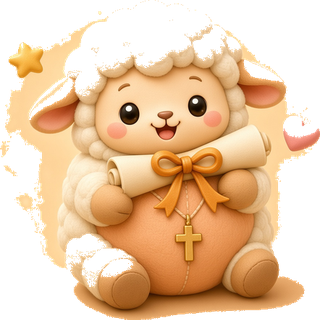
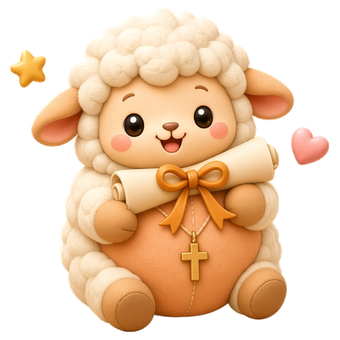
Clean Verse Claw win popup glow, layout, and buttons
Replace blotchy lamb backdrop with a clean asset plus soft radial
halo, keep the doll above the headline, and use even text-only CTAs.

diff --git a/src/components/verse-claw/verse-claw.css b/src/components/verse-claw/verse-claw.css
@@ -596,8 +596,8 @@
 .vc-popup {
   position: relative;
   width: min(100%, 400px);
-  margin-top: 48px;
-  padding: 64px 22px 22px;
+  margin-top: 12px;
+  padding: 18px 22px 22px;
   border-radius: 42px;
   background:
     linear-gradient(165deg, #fffaf3 0%, #fff4e8 45%, #ffeeda 100%);
@@ -611,50 +611,42 @@
 }
 
 .vc-popup-hero {
-  position: absolute;
-  left: 50%;
-  top: -72px;
-  width: 150px;
-  height: 150px;
-  margin-left: -75px;
-  z-index: 2;
-  filter: drop-shadow(0 12px 16px rgba(80, 40, 10, 0.22));
+  position: relative;
+  width: 132px;
+  height: 132px;
+  margin: 4px auto 14px;
+  z-index: 1;
   animation: vc-pop 560ms cubic-bezier(0.34, 1.45, 0.64, 1);
 }
 
+.vc-hero-glow {
+  position: absolute;
+  left: 50%;
+  top: 50%;
+  width: 150%;
+  height: 150%;
+  margin-left: -75%;
+  margin-top: -75%;
+  border-radius: 50%;
+  background:
+    radial-gradient(
+      circle,
+      rgba(255, 236, 190, 0.95) 0%,
+      rgba(255, 210, 140, 0.55) 38%,
+      rgba(255, 190, 120, 0.18) 62%,
+      transparent 72%
+    );
+  pointer-events: none;
+  z-index: 0;
+}
+
 .vc-popup-hero img {
+  position: relative;
+  z-index: 1;
   width: 100%;
   height: 100%;
   object-fit: contain;
-}
-
-.vc-spark {
-  position: absolute;
-  font-size: 1.1rem;
-  line-height: 1;
-  filter: drop-shadow(0 2px 2px rgba(80, 40, 10, 0.15));
-  animation: vc-twinkle 2.4s ease-in-out infinite;
-}
-
-.vc-spark--a {
-  left: 4px;
-  top: 28px;
-  color: var(--vc-gold);
-}
-
-.vc-spark--b {
-  right: 2px;
-  top: 18px;
-  color: var(--vc-pink-deep);
-  animation-delay: 0.4s;
-}
-
-.vc-spark--c {
-  left: 18px;
-  bottom: 8px;
-  color: #fff;
-  text-shadow: 0 0 6px var(--vc-gold);
-  animation-delay: 0.8s;
+  filter: drop-shadow(0 10px 14px rgba(80, 40, 10, 0.2));
 }
 
 @keyframes vc-pop {
@@ -669,8 +661,11 @@
 }
 
 .vc-win-title {
+  position: relative;
+  z-index: 2;
   margin: 0;
-  line-height: 1.05;
+  padding-top: 2px;
+  line-height: 1.1;
 }
 
 .vc-you-caught {
@@ -813,13 +808,15 @@
   display: inline-flex;
   align-items: center;
   justify-content: center;
-  gap: 8px;
   min-height: 48px;
-  padding: 0 14px;
+  padding: 12px 18px;
   border-radius: 999px;
   font: inherit;
-  font-size: 0.92rem;
+  font-size: 0.95rem;
   font-weight: 800;
+  letter-spacing: 0.01em;
+  line-height: 1.2;
+  white-space: nowrap;
   text-decoration: none;
   cursor: pointer;
   border: 2px solid transparent;
@@ -830,12 +827,6 @@
 .vc-actions button:active {
   transform: translateY(2px);
   box-shadow: 0 3px 0 rgba(90, 50, 20, 0.18);
-}
-
-.vc-btn-icon {
-  width: 22px;
-  height: 22px;
-  flex: 0 0 auto;
 }
 
 .vc-btn-again {
@@ -868,17 +859,14 @@
     flex-direction: row;
     flex-wrap: nowrap;
     align-items: stretch;
+    gap: 8px;
   }
 
   .vc-actions a,
   .vc-actions button {
     flex: 1 1 0;
     min-width: 0;
-    font-size: 0.84rem;
-    padding: 0 10px;
-  }
-
-  .vc-btn-share {
-    flex: 1.25 1 0;
+    font-size: 0.82rem;
+    padding: 12px 10px;
   }
 }

diff --git a/src/components/verse-claw/VerseClawGame.tsx b/src/components/verse-claw/VerseClawGame.tsx
@@ -35,42 +35,6 @@ function pileStyle(doll: VerseClawDoll): CSSProperties {
   };
 }
 
-function IconClaw() {
-  return (
-    <svg className="vc-btn-icon" viewBox="0 0 24 24" aria-hidden="true">
-      <rect x="6" y="3" width="12" height="14" rx="2" fill="#5c3d2e" opacity="0.9" />
-      <path d="M12 7v5M9 14c0-2 1.5-3 3-3s3 1 3 3" stroke="#fff" strokeWidth="1.6" fill="none" strokeLinecap="round" />
-      <rect x="4" y="17" width="16" height="4" rx="1.5" fill="#5c3d2e" />
-    </svg>
-  );
-}
-
-function IconBible() {
-  return (
-    <svg className="vc-btn-icon" viewBox="0 0 24 24" aria-hidden="true">
-      <path d="M5 4.5h11.5A2.5 2.5 0 0 1 19 7v12.5H7.5A2.5 2.5 0 0 0 5 22V4.5Z" fill="#8b5a2b" />
-      <path d="M7 6h9v12H7.8A2.8 2.8 0 0 0 5 20.8V8a2 2 0 0 1 2-2Z" fill="#f5e6b8" />
-      <path d="M11.2 9.2v6M8.8 11.5h4.8" stroke="#8b5a2b" strokeWidth="1.5" strokeLinecap="round" />
-    </svg>
-  );
-}
-
-function IconShare() {
-  return (
-    <svg className="vc-btn-icon" viewBox="0 0 24 24" aria-hidden="true">
-      <path
-        d="M12 21s-7-4.2-7-9.2A4.2 4.2 0 0 1 12 8.2a4.2 4.2 0 0 1 7 3.6C19 16.8 12 21 12 21Z"
-        fill="#fff"
-        stroke="#5c3d2e"
-        strokeWidth="1.2"
-      />
-      <circle cx="10" cy="12.2" r="1.3" fill="#5c3d2e" />
-      <circle cx="14" cy="12.2" r="1.3" fill="#5c3d2e" />
-      <path d="M10 14.2c.7.6 2.3.6 3 0" stroke="#5c3d2e" strokeWidth="1.1" fill="none" strokeLinecap="round" />
-    </svg>
-  );
-}
-
 function Bokeh() {
   const bits = [
     { left: "8%", top: "12%", size: 18, color: "#ffd27a", delay: "0s" },
@@ -401,11 +365,9 @@ export function VerseClawGame() {
           <Bokeh />
           <div className="vc-popup">
             <div className="vc-popup-hero">
+              <span className="vc-hero-glow" aria-hidden="true" />
               {/* eslint-disable-next-line @next/next/no-img-element */}
               <img src={WIN_LAMB} alt="" />
-              <span className="vc-spark vc-spark--a">★</span>
-              <span className="vc-spark vc-spark--b">♥</span>
-              <span className="vc-spark vc-spark--c">✦</span>
             </div>
             <h2 id="vc-win-title" className="vc-win-title">
               <span className="vc-you-caught">You caught</span>
@@ -423,15 +385,12 @@ export function VerseClawGame() {
             </div>
             <div className="vc-actions">
               <button type="button" className="vc-btn-again" onClick={playAgain}>
-                <IconClaw />
                 Play again
               </button>
               <Link href={bibleHref} className="vc-btn-bible">
-                <IconBible />
                 Open Bible
               </Link>
               <button type="button" className="vc-btn-share" onClick={shareWithFamily}>
-                <IconShare />
                 Share with family
               </button>
             </div>
